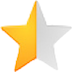
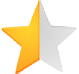
Complete ratings in book index description

diff --git a/frontend/components/books/landing_page/book_index_item.jsx b/frontend/components/books/landing_page/book_index_item.jsx
@@ -1,6 +1,6 @@
 import React from 'react';
 import { Link, withRouter } from 'react-router-dom';
-
+import BookShowRating from '../book_show/book_show_rating';
 
 const BookIndexItem = ({ book, idx, audio, audioId, handleAudioClick }) => {
   let description = book.summary.slice(0,500) + "...";
@@ -10,6 +10,9 @@ const BookIndexItem = ({ book, idx, audio, audioId, handleAudioClick }) => {
       <div className="book-index-author-line">
         <div className="book-index-by">By: </div>
         <div className="book-index-author"> {book.author}</div>
+      </div>
+      <div className="book-index-description-rating">
+        <BookShowRating count={book.overallRating}/>
       </div>
       <div className="book-index-narrator-line">
         <div className="book-index-narrator">Narrator:</div>
@@ -44,10 +47,16 @@ const BookIndexItem = ({ book, idx, audio, audioId, handleAudioClick }) => {
             </div>
           </div>
 
-        <div className="book-index-outside-narrator-line">
-          <div className="book-index-outside-narrator">Narrator:</div>
-          <div className="book-index-outside-narrator-name">{book.narrator}</div>
+        <div className="book-index-outside-narrator-line-rating">
+          <div className="book-index-outside-narrator-line">
+            <div className="book-index-outside-narrator">Narrator:</div>
+            <div className="book-index-outside-narrator-name">{book.narrator}</div>
+          </div>
+          <div className="book-index-rating">
+            <BookShowRating count={book.overallRating}/>
+          </div>
         </div>
+
 
         <div>{((idx+1) % 6 === 5 || (idx+1) % 6 === 0) ?
             <div className="right-side-drop">{fullDescription}</div> :

diff --git a/frontend/components/books/book_show/book_show_rating.jsx b/frontend/components/books/book_show/book_show_rating.jsx
@@ -1,11 +1,11 @@
 import React from 'react';
 
 const BookShowRating = ({ count, number }) => {
-  // let features = [overall, performance, story];
   const star = <div className="book-show-full-star"><img src='/assets/stars/full_star.png' width="15" height="15"/></div>
   const halfStar = <div className="book-show-half-star"><img src='/assets/stars/half_star.png' width="15" height="15"/></div>
   const emptyStar = <div className="book-show-empty-star"><img src='/assets/stars/empty_star.png' width="15" height="15"/></div>
-
+  count = typeof count === 'number' ? count : count.overall_rating;
+  number = typeof number === 'number' || number === undefined ? number : number.num_overall_ratings;
   return (
     <div className="book-show-rating-line">
       <div className="book-show-rating-type">
@@ -33,13 +33,18 @@ const BookShowRating = ({ count, number }) => {
           { count && count === 5 ? star : null }
         </div>
 
-        <div className="book-show-number-of-ratings">
-          {count.overall_rating}
-        </div>
+        { number ?
+          <div>
+            <div className="book-show-number-of-ratings">
+              {count}
+            </div>
 
-        <div className="book-show-rating-ratings">
-          ({number.num_overall_ratings} { number.num_overall_ratings > 1 ? "ratings" : "rating" })
-        </div>
+            <div className="book-show-rating-ratings">
+              ({number} { number > 1 ? "ratings" : "rating" })
+            </div>
+          </div> : null
+        }
+
       </div>
     </div>
 

diff --git a/app/assets/stylesheets/book_index.scss b/app/assets/stylesheets/book_index.scss
@@ -82,7 +82,7 @@
   // padding-bottom: 20px;
   max-width: 1035px;
   min-width: 1035px;
-  height: 505px;
+  height: 530px;
   display: flex;
   flex-wrap: wrap;
 
@@ -123,10 +123,12 @@
   height: 149px;
 }
 
-.book-index-outside-narrator-line {
+.book-index-outside-narrator-line-rating {
+  position: relative;
   display: flex;
+  flex-direction: column;
   width: 142px;
-  height: 30px;
+  height: 60px;
   font-family: "Amazon Amber", Arial, sans-serif;
   font-size: 13px;
   margin: 0 10px 10px 10px;
@@ -136,11 +138,24 @@
   color: black;
 }
 
+.book-index-outside-narrator-line {
+  display: flex;
+}
+
 .book-index-outside-narrator {
   color: gray;
   font-weight: 700;
   padding-right: 5px;
+}
 
+.book-index-rating {
+  position: absolute;
+  left: 10px;
+  top: 45px;
+}
+
+.book-index-description-rating {
+  padding-bottom: 10px;
 }
 
 .book-index-item {
@@ -150,13 +165,8 @@
   margin: 11px;
 }
 
-.book-index-item:hover  .left-side-drop  .book-index-description {
-  background: white;
-  z-index: 5;
-  display: inline;
-}
-
-.book-index-item:hover  .right-side-drop  .book-index-description {
+.book-index-item:hover  .left-side-drop  .book-index-description,
+.book-index-item:hover  .right-side-drop  .book-index-description  {
   background: white;
   z-index: 5;
   display: inline;
@@ -175,7 +185,6 @@
 }
 
 .book-index-description {
-  // position: absolute;
   width: 200px;
   height: 330px;
   border: white;

diff --git a/app/assets/stylesheets/book_show.scss b/app/assets/stylesheets/book_show.scss
@@ -9,7 +9,6 @@
   justify-content: space-between;
   font-family: "Amazon Amber", Arial, sans-serif;
   padding-top: 20px;
-
 }
 
 .book-show-book-description-buttons {
@@ -83,14 +82,10 @@
 
 .book-show-full-star,
 .book-show-half-star,
-.book-show-empty-star {
-  padding: 1.5px;
-  font-size: 18px;
-}
-
+.book-show-empty-star,
 .book-show-number-of-ratings,
 .book-show-rating-ratings {
-  padding: 1.5px;
+  padding: 2px;
 }
 
 .show-book-buy-button {
@@ -148,7 +143,6 @@
   display: flex;
   justify-content: center;
   color: gray;
-
 }
 
 .book-show-division-or {

diff --git a/frontend/components/App.jsx b/frontend/components/App.jsx
@@ -8,7 +8,7 @@ import BookIndex from './books/books_homepage/book_index_homepage';
 import NavBar from './nav_bar/nav_bar';
 import BookShow from './books/book_show/book_show_container';
 import LibraryContainer from './books/library/library_container';
-import BookSearch from './books/book_search';
+import BookSearch from './books/landing_page/book_search';
 import UserProfileContainer from './user/user_profile_container';
 
 const App = (props) => {

diff --git a/frontend/components/books/landing_page/book_index_container.jsx b/frontend/components/books/landing_page/book_index_container.jsx
@@ -1,6 +1,6 @@
 import { connect } from 'react-redux';
 import BookIndex from './book_index';
-import { fetchBooks } from '../../actions/book_actions';
+import { fetchBooks } from '../../../actions/book_actions';
 
 const mapStateToProps = state => ({
   books: Object.keys(state.books).map(id => state.books[id])

diff --git a/frontend/components/books/landing_page/book_index.jsx b/frontend/components/books/landing_page/book_index.jsx
@@ -1,6 +1,6 @@
 import React from 'react';
 import BookIndexItem from './book_index_item';
-import shuffle from '../../util/_shuffle';
+import shuffle from '../../../util/_shuffle';
 
 class BookIndex extends React.Component {
   constructor (props) {
